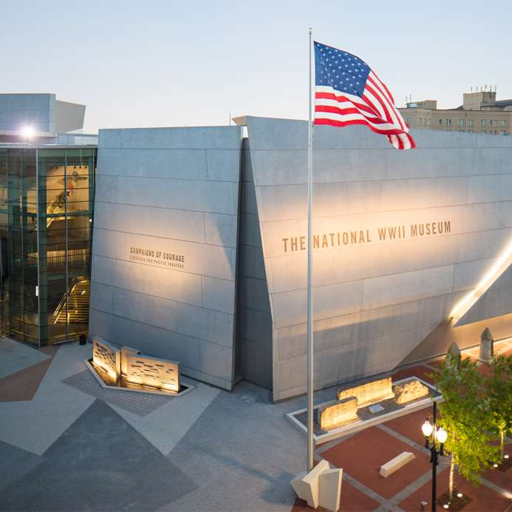
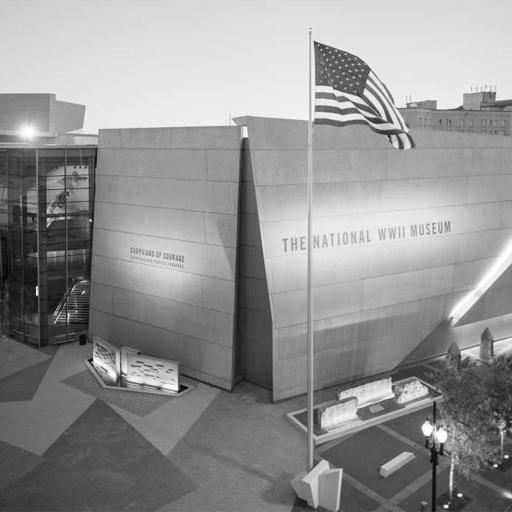
People and equipment devolping
adding code and making every image black and white.
Fixing popover

diff --git a/peopleandequipment.html b/peopleandequipment.html
@@ -71,10 +71,117 @@
     <button onclick="myFunction()">Toggle dark mode</button>
     <!-- END TOP NAVIGATION -->
 
-    <!-- DO NOT EDIT BELOW THIS LINE -->
-    <script src="https://cdn.jsdelivr.net/npm/bootstrap@5.3.3/dist/js/bootstrap.bundle.min.js"
-        integrity="sha384-YvpcrYf0tY3lHB60NNkmXc5s9fDVZLESaAA55NDzOxhy9GkcIdslK1eN7N6jIeHz"
-        crossorigin="anonymous"></script>
+    <!--START IMAGES-->
+    <div class="row">
+        <img src="images/pae1.jpg" alt="" style="width: 50%">
+        <img src="images/pae2.jpg" alt="" style="width:50%">
+    </div>
+    </div>
+    <!--END IMAGES-->
+
+    <!--START POPOVER-->
+    <!--START TEXT-->
+    </div>
+    <meta name="viewport" content="width=device-width, initial-scale=1">
+    <style>
+        * {
+            box-sizing: border-box;
+        }
+
+        .column {
+            float: left;
+            padding: 10px;
+            height: 300px;
+        }
+
+        .left {
+            width: 50%;
+        }
+
+        .right {
+            width: 50%;
+        }
+
+        .row:after {
+            content: "";
+            display: table;
+            clear: both;
+        }
+    </style>
+    </head>
+    <h1></h1>
+
+    <div class="row">
+        <div class="column left" style="background-color:#E5E4E2;">
+            <h1></h1>
+            <p>Proin ante neque, condimentum eu egestas et, convallis eu nulla. Nullam tincidunt sit amet leo in
+                ultricies.
+                Donec
+                finibus augue orci, nec placerat tortor sollicitudin sed. Vivamus vitae orci id sem venenatis rutrum in
+                in
+                dui.
+                Curabitur at purus vitae nulla euismod laoreet. In non nisl volutpat lectus tristique vehicula. Vivamus
+                eget
+                enim
+                convallis turpis iaculis scelerisque. Donec varius vehicula massa id varius. Maecenas sed iaculis diam,
+                non
+                volutpat
+                sem. Vivamus lacinia in metus nec feugiat. Nullam ac quam in ligula laoreet venenatis. Vestibulum
+                euismod
+                tortor
+                velit, quis feugiat sapien sagittis non. Vestibulum quis commodo nulla, id placerat odio. Donec et eros
+                vulputate,
+                porttitor leo nec, vestibulum justo.
+                Proin ante neque, condimentum eu egestas et, convallis eu nulla. Nullam tincidunt sit amet leo in
+                ultricies.
+                Donec
+                finibus augue orci, nec placerat tortor sollicitudin sed. Vivamus vitae orci id sem venenatis rutrum in
+                in
+                dui.
+                Curabitur at purus vitae nulla euismod laoreet. In non nisl volutpat lectus tristique vehicula. Vivamus
+                eget
+                enim
+                convallis turpis iaculis scelerisque. Donec varius vehicula massa id varius. Maecenas sed iaculis diam,
+                non
+                volutpat
+                sem. Vivamus lacinia in metus nec feugiat. Nullam ac quam in ligula laoreet venenatis. Vestibulum
+                euismod
+                tortor
+                velit, quis feugiat sapien sagittis non. Vestibulum quis commodo nulla, id placerat odio. Donec et eros
+                vulputate,
+                porttitor leo nec, vestibulum justo.
+            </p>
+        </div>
+        <div class="column right" style="background-color:#E5E4E2;">
+            <p>Proin ante neque, condimentum eu egestas et, convallis eu nulla. Nullam tincidunt sit amet leo in
+                ultricies.
+                Donec
+                finibus augue orci, nec placerat tortor sollicitudin sed. Vivamus vitae orci id sem venenatis rutrum in
+                in
+                dui.
+                Curabitur at purus vitae nulla euismod laoreet. In non nisl volutpat lectus tristique vehicula. Vivamus
+                eget
+                enim
+                convallis turpis iaculis scelerisque. Donec varius vehicula massa id varius. Maecenas sed iaculis diam,
+                non
+                volutpat
+                sem. Vivamus lacinia in metus nec feugiat. Nullam ac quam in ligula laoreet venenatis. Vestibulum
+                euismod
+                tortor
+                velit, quis feugiat sapien sagittis non. Vestibulum quis commodo nulla, id placerat odio. Donec et eros
+                vulputate,
+                porttitor leo nec, vestibulum justo.</p>
+            <button type="button" class="btn btn-lg btn-danger" data-bs-toggle="popover" data-bs-title="Popover title"
+                data-bs-content="And here's some amazing content. It's very engaging. Right?">Click to toggle
+                popover</button>
+        </div>
+        <!--END TEXT-->
+        <!--END POPOVER-->
+
+        <!-- DO NOT EDIT BELOW THIS LINE -->
+        <script src="https://cdn.jsdelivr.net/npm/bootstrap@5.3.3/dist/js/bootstrap.bundle.min.js"
+            integrity="sha384-YvpcrYf0tY3lHB60NNkmXc5s9fDVZLESaAA55NDzOxhy9GkcIdslK1eN7N6jIeHz"
+            crossorigin="anonymous"></script>
 </body>
 
 </html>

diff --git a/index.html b/index.html
@@ -101,7 +101,7 @@
                     <img src="images/card2.png" class="card-img-top" alt="...">
                     <div class="card-body">
                         <h5 class="card-title">Tanks</h5>
-                        <p class="card-text"> Some of the best craftmanship during the period
+                        <p class="card-text"> The best craftmanship of the century
                         </p>
                         <a href="https://youtu.be/SdL55HWNPRM?si=EDUF0JQnBlvH8eiZ" class="btn btn-primary">Go
                             Now</a>

diff --git a/script.js b/script.js
@@ -2,3 +2,7 @@ function myFunction() {
    var element = document.body;
    element.classList.toggle("dark-mode");
 }
+
+const popoverTriggerList = document.querySelectorAll('[data-bs-toggle="popover"]')
+const popoverList = [...popoverTriggerList].map(popoverTriggerEl => new bootstrap.Popover(popoverTriggerEl))
+
